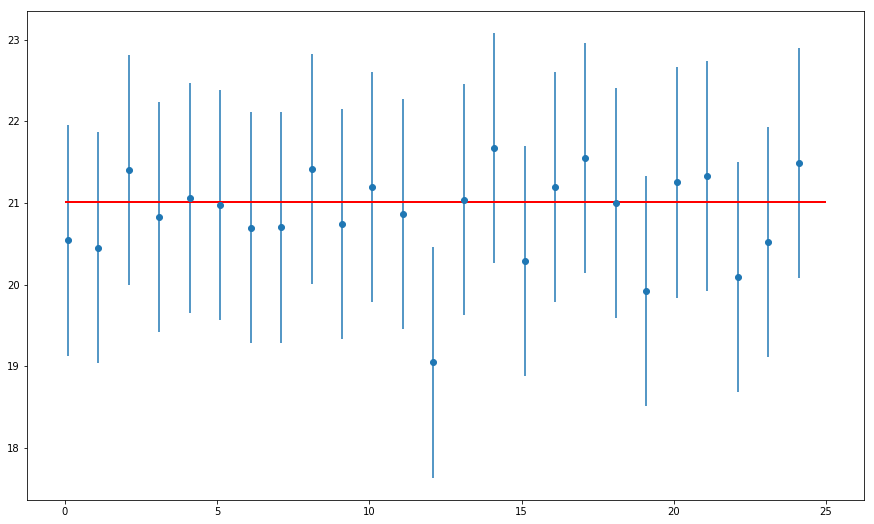
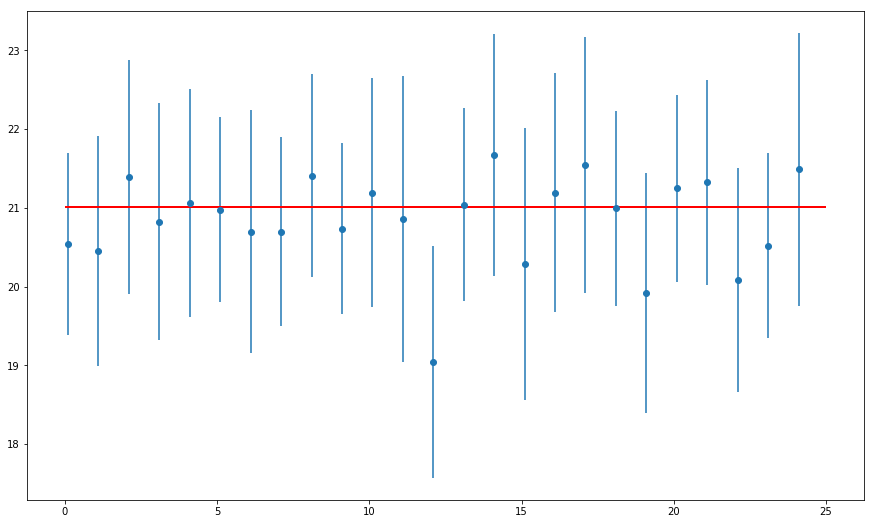
fix std typo

diff --git a/README.md b/README.md
@@ -64,73 +64,6 @@ pop_ages.describe()
 ```
 
 
-
-
-<div>
-<style scoped>
-    .dataframe tbody tr th:only-of-type {
-        vertical-align: middle;
-    }
-
-    .dataframe tbody tr th {
-        vertical-align: top;
-    }
-
-    .dataframe thead th {
-        text-align: right;
-    }
-</style>
-<table border="1" class="dataframe">
-  <thead>
-    <tr style="text-align: right;">
-      <th></th>
-      <th>0</th>
-    </tr>
-  </thead>
-  <tbody>
-    <tr>
-      <th>count</th>
-      <td>20000.000000</td>
-    </tr>
-    <tr>
-      <th>mean</th>
-      <td>21.008578</td>
-    </tr>
-    <tr>
-      <th>std</th>
-      <td>3.671277</td>
-    </tr>
-    <tr>
-      <th>min</th>
-      <td>4.784588</td>
-    </tr>
-    <tr>
-      <th>25%</th>
-      <td>18.662256</td>
-    </tr>
-    <tr>
-      <th>50%</th>
-      <td>21.163276</td>
-    </tr>
-    <tr>
-      <th>75%</th>
-      <td>23.489438</td>
-    </tr>
-    <tr>
-      <th>max</th>
-      <td>36.140116</td>
-    </tr>
-  </tbody>
-</table>
-</div>
-
-
-
-
-![png](index_files/index_7_1.png)
-
-
-
 ```python
 # __SOLUTION__ 
 np.random.seed(20)
@@ -348,13 +281,6 @@ stats.t.interval(alpha = 0.95,              # Confidence level
 ```
 
 
-
-
-    (18.4609156900928, 21.280661568850913)
-
-
-
-
 ```python
 # __SOLUTION__ 
 stats.t.interval(alpha = 0.95,              # Confidence level
@@ -423,7 +349,7 @@ def conf_interval(sample):
 
     t = stats.t.ppf(q = 0.975, df=24)  #  t-critical value for 95% confidence
     
-    sigma = sample_stdev/math.sqrt(sample_size) 
+    sigma = sample.std()/math.sqrt(sample_size) 
 
     # Calculate the margin of error using formula given above
     moe = t * sigma
@@ -507,17 +433,6 @@ for sample in range(25):
 ```
 
 
-
-
-    <matplotlib.collections.LineCollection at 0x1a198414a8>
-
-
-
-
-![png](index_files/index_28_1.png)
-
-
-
 ```python
 # __SOLUTION__ 
 # Plot the confidence intervals with sample and population means
@@ -539,7 +454,7 @@ plt.hlines(xmin=0, xmax=25,
 
 
 
-    <matplotlib.collections.LineCollection at 0x1a19837588>
+    <matplotlib.collections.LineCollection at 0x1a1927f400>
 
 
 
